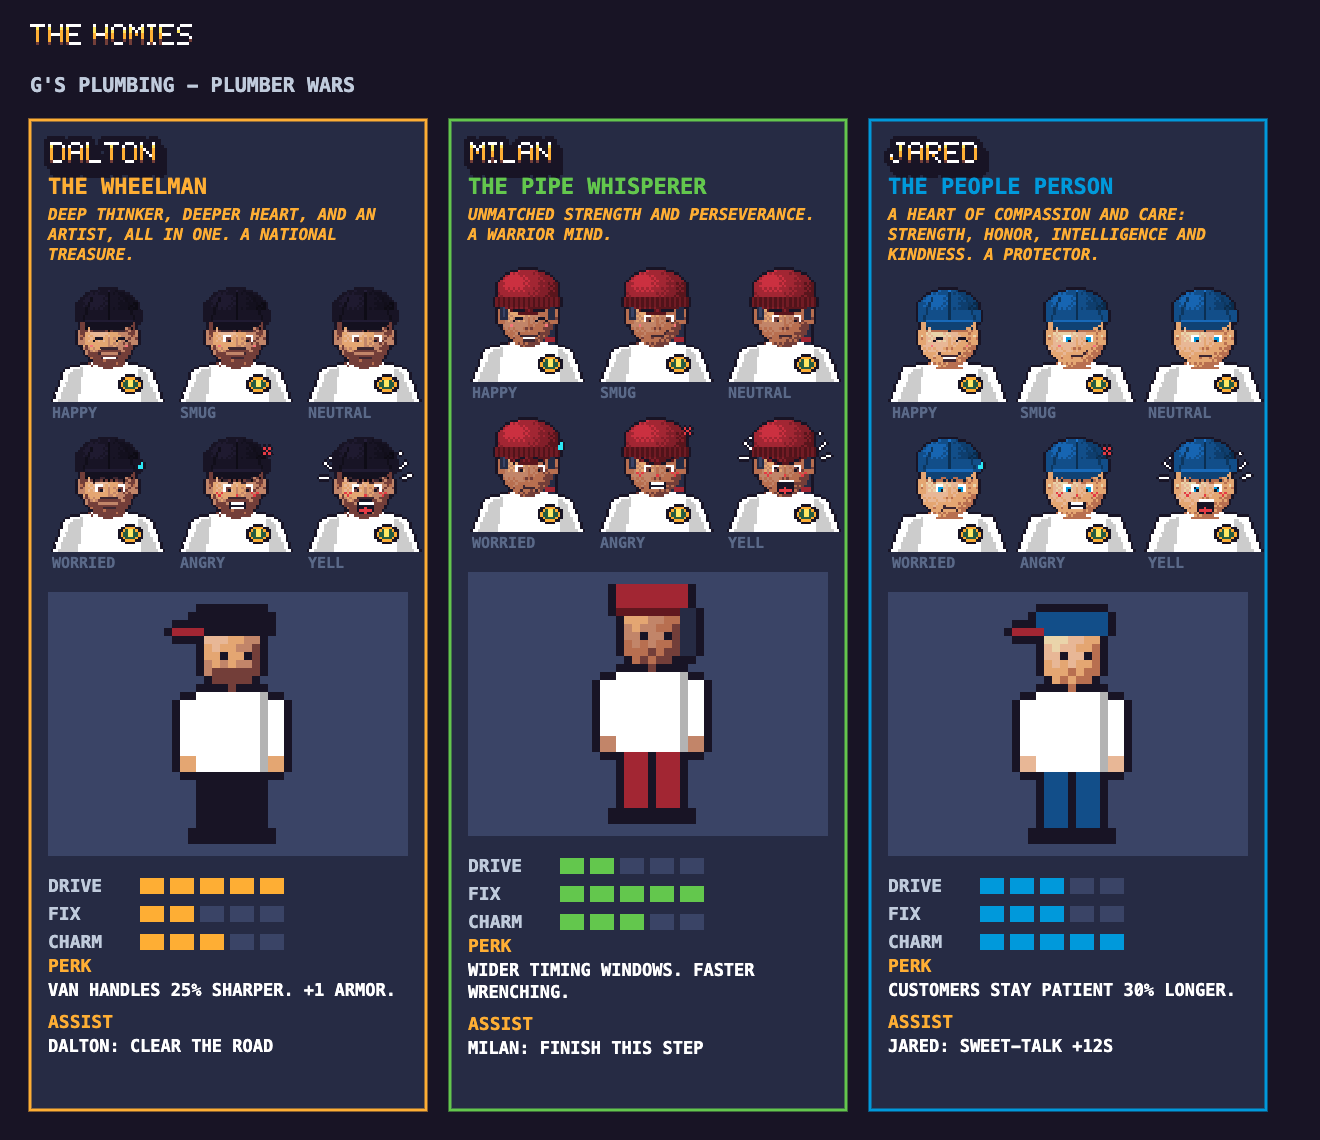
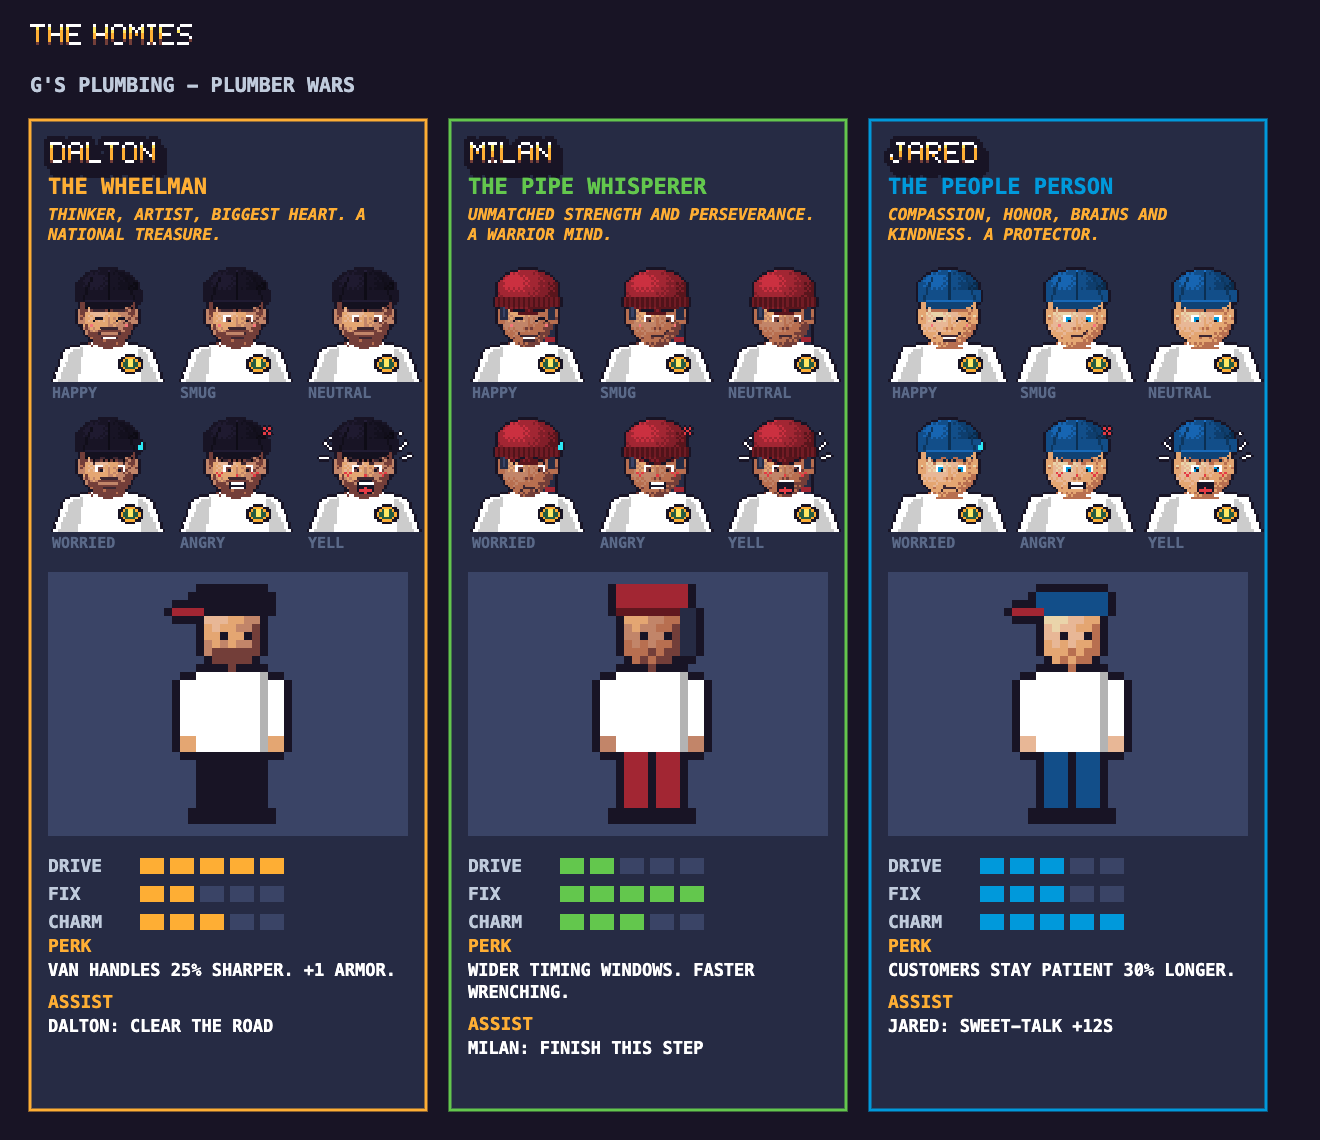
Alki caption: beach vibes, tidepools, good eats & ocean views; equal-length crew tributes

diff --git a/src/data/about.js b/src/data/about.js
@@ -5,9 +5,9 @@ export const CREW_BLURB = 'HARD WORK, BIG BRAINS, STRONG BACKS. THEY SHOW UP WHE
 
 // A word from the boss about each homie (shown on the About page and the character sheet).
 export const HOMIE_TRIBUTES = {
-  dalton: 'DEEP THINKER, DEEPER HEART, AND AN ARTIST, ALL IN ONE. A NATIONAL TREASURE.',
+  dalton: 'THINKER, ARTIST, BIGGEST HEART. A NATIONAL TREASURE.',
   milan: 'UNMATCHED STRENGTH AND PERSEVERANCE. A WARRIOR MIND.',
-  jared: 'A HEART OF COMPASSION AND CARE: STRENGTH, HONOR, INTELLIGENCE AND KINDNESS. A PROTECTOR.',
+  jared: 'COMPASSION, HONOR, BRAINS AND KINDNESS. A PROTECTOR.',
 };
 
 export const HOMIE_BIOS = {
@@ -28,6 +28,6 @@ export const HOODS = [
     pipes: 'STORMS OFF THE SOUND FLOOD BASEMENTS. SUMP PUMPS EARN THEIR KEEP.' },
   { blurb: 'KERRY PARK HAS THE POSTCARD VIEW: SPACE NEEDLE, DOWNTOWN, RAINIER. STREETS SO STEEP THE OLD STREETCARS USED COUNTERWEIGHTS.',
     pipes: 'OLD CLAY SEWERS. TREE ROOTS FIND EVERY CRACK.' },
-  { blurb: 'WHERE SEATTLE BEGAN: THE DENNY PARTY LANDED HERE IN 1851. NOW IT IS VOLLEYBALL, FISH AND CHIPS AND TIMMY.',
+  { blurb: 'WHERE SEATTLE BEGAN: THE DENNY PARTY LANDED HERE IN 1851. NOW: TIDEPOOLS, SUNSETS OVER THE OLYMPICS AND TIMMY.',
     pipes: 'SAND IN EVERY DRAIN. PLUG THE OVERFLOW OR THE PLUNGER JUST PUSHES AIR.' },
 ];

diff --git a/src/data/content.js b/src/data/content.js
@@ -30,7 +30,7 @@ export const DISTRICTS = [
   { name: 'CAPITOL HILL', art: 'capitolhill', tag: 'STEEP HILLS. OLD PIPES. NO PARKING.', weather: 'drizzle', time: 'day', sky: 'overcast', road: 'E PINE ST', rain: 0.55 },
   { name: 'WEST SEATTLE', art: 'westseattle', tag: 'THE BRIDGE IS OPEN. THE SEWERS ARE NOT.', weather: 'storm', time: 'dusk', sky: 'dusk', road: 'CALIFORNIA AVE SW', rain: 1 },
   { name: 'QUEEN ANNE', art: 'queenanne', tag: 'OLD MONEY. OLDER PLUMBING. FINAL SHOWDOWN.', weather: 'storm', time: 'night', sky: 'night', road: 'W HIGHLAND DR', rain: 0.8 },
-  { name: 'ALKI BEACH', art: 'alki', tag: 'VOLLEYBALL, FISH & CHIPS & ONE ENORMOUS DUDE.', weather: 'clear', time: 'day', sky: 'day', road: 'ALKI AVE SW', rain: 0 },
+  { name: 'ALKI BEACH', art: 'alki', tag: 'BEACH VIBES, TIDEPOOLS, GOOD EATS & OCEAN VIEWS.', weather: 'clear', time: 'day', sky: 'day', road: 'ALKI AVE SW', rain: 0 },
 ];
 
 // Difficulty curve per job index (0..14).
